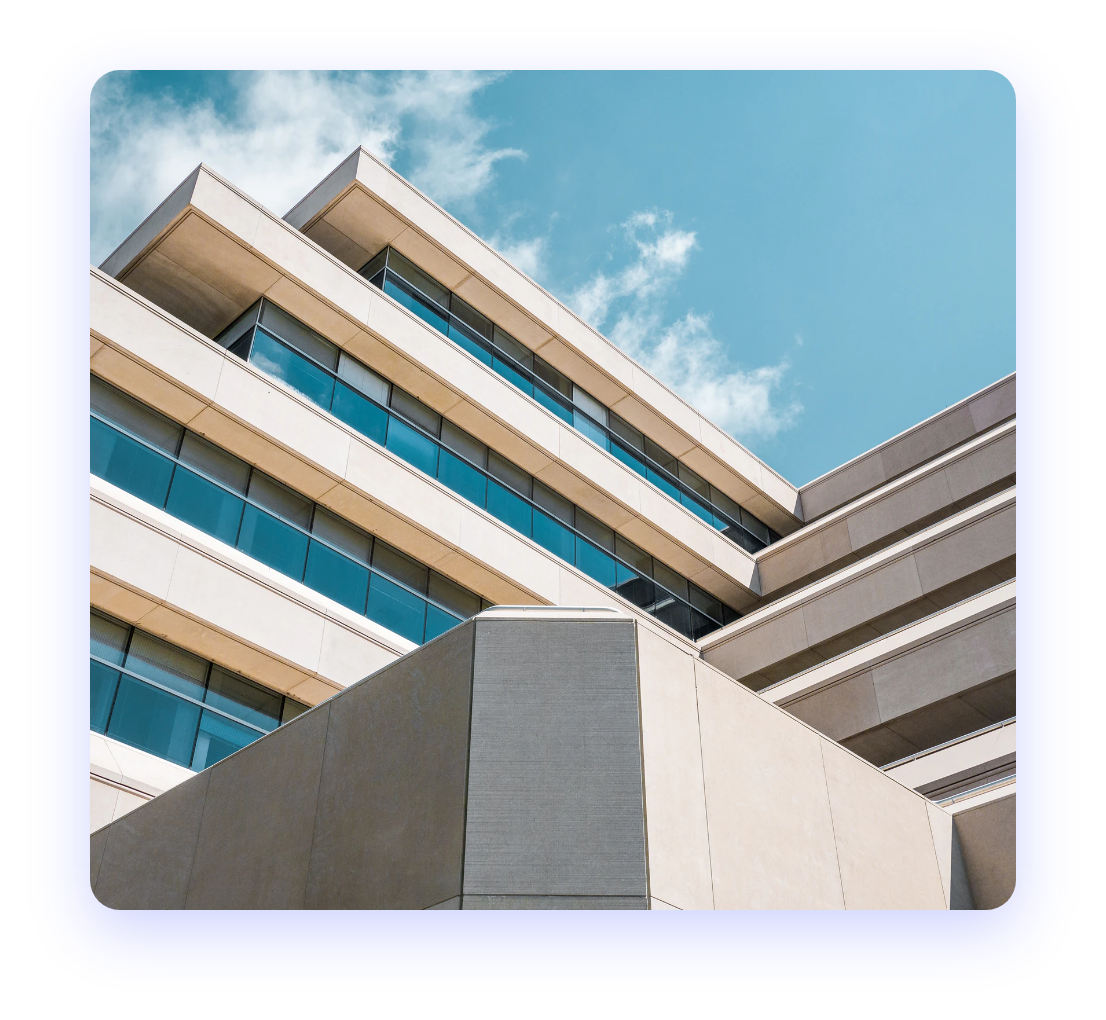
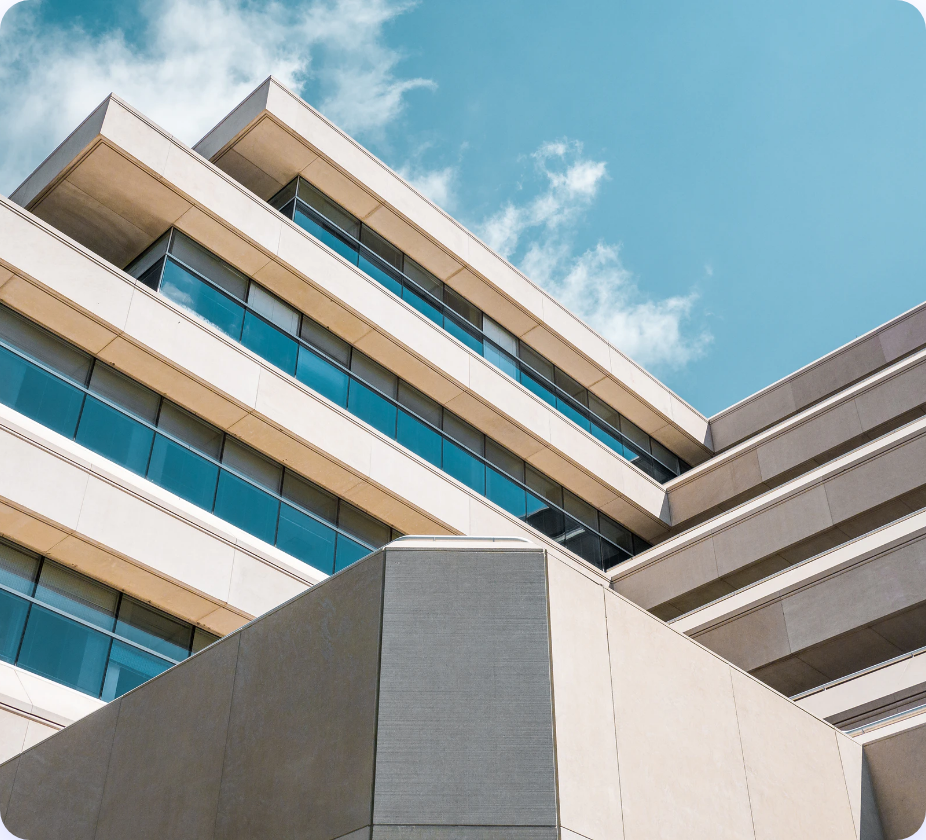
Adjusted images for better alignment
Adjusted images and added more styles in CSS

diff --git a/src/css/style.css b/src/css/style.css
@@ -19,20 +19,20 @@ header h1{
   margin: 10px auto;
  }
  .box {
-  display: inline-block;
   max-width: 395px;
   width: 100%;
   vertical-align: top;
 }
 .box img {
-  width: 100%;
+  width: 300px;
   height: 300px;
   object-fit: cover;
+  display: flex;  
+  border-radius: 20px;
 }
 .box {
   position: relative;
 }
-
 .box p {
   position: absolute;
   width: 60%;
@@ -48,7 +48,6 @@ header h1{
   position: absolute;
   top: 10px;
   left: 10px;
-
   background-color: rgb(255, 255, 255);
   background-color: rgba(255, 255, 255, 0.5);
 }
@@ -66,4 +65,6 @@ header h1{
 .box:nth-child(2n) {
   max-width: unset;
   width: 50%;
+  position: relative;
+  top: -10px;
 }
